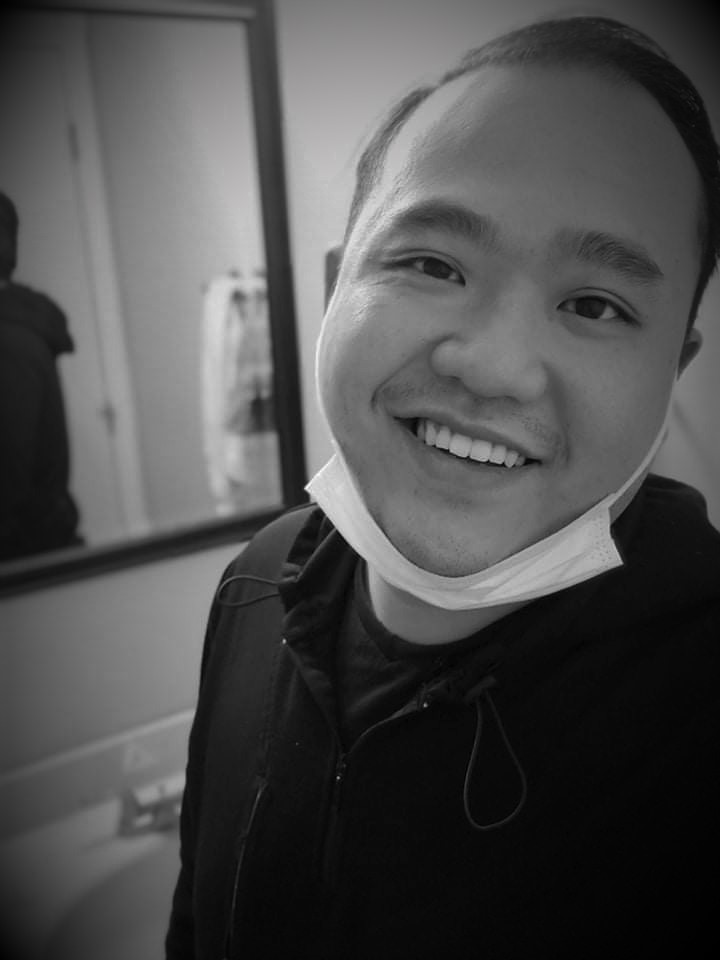
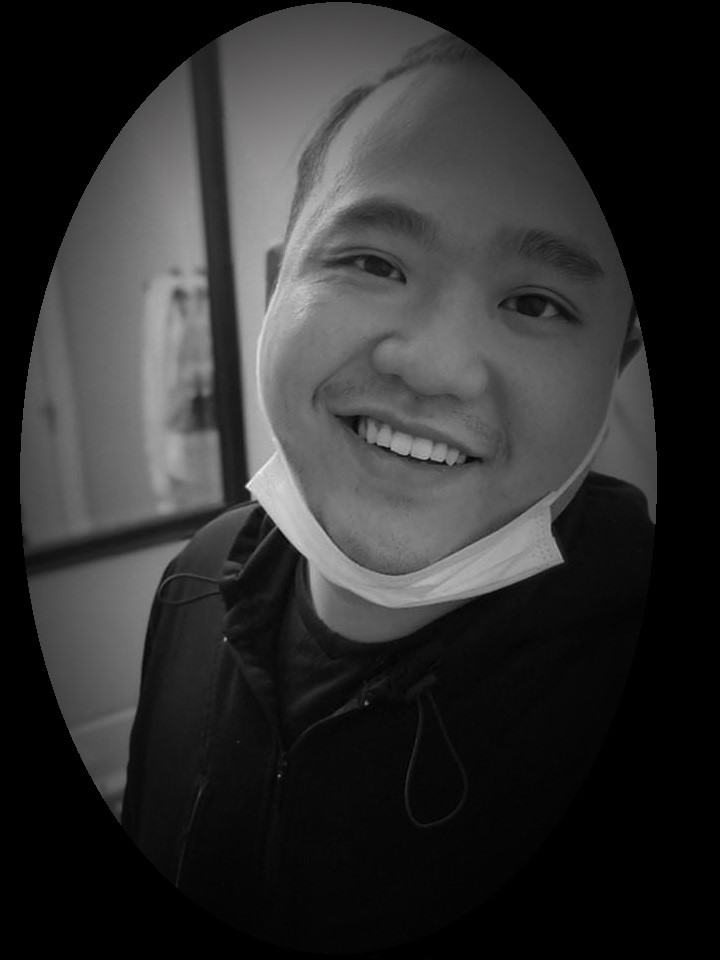
edited photo, changes background color

diff --git a/src/components/pages/AboutMe.js b/src/components/pages/AboutMe.js
@@ -1,16 +1,25 @@
 import React from 'react';
 import ProfilePhoto from '../../assets/MePhotoModified.jpg'
+import '../../styles/Section.css';
+
+const styles = {
+    sectionStyles: {
+      background: 'black',
+      color: 'white',
+    },
+  };
 
 
 export default function AboutMe() {
   return (
-    <div class="container p-2 mt-3">
+    <section style={styles.sectionStyles} className="section">
+    <div class="container p-5 mt-5">
             <h2 class="text-center text-primary fw-bolder pb-3 mb-3">About Me</h2>
             <div class="row d-flex justify-content-center">
-                <div class="col-4">
-                    <img src={ProfilePhoto} className='img-fluid rounded' alt='Profile Photo' />
+                <div class="col-5">
+                    <img src={ProfilePhoto} className='img-fluid rounded' alt='ProfilePhoto' />
                 </div>
-                <div class="col-6">
+                <div class="col-5">
                     <p><span class="fw-bolder fs-4 text-secondary">Hello, I am Samson Vang </span>
                         <br /><br />
 
@@ -25,5 +34,6 @@ export default function AboutMe() {
                 </div>
             </div>
         </div>
+        </section>
   );
 }

diff --git a/src/components/pages/Contact.js b/src/components/pages/Contact.js
@@ -60,7 +60,7 @@ function Contact() {
         <p class="text-center w-responsive mx-auto mb-5">Do you have any questions? Please do not hesitate to contact us directly. Our team will come back to you within
           a matter of hours to help you.</p>
         <form class="row" className="form">
-          <div class="col-md-6">
+          <div class="col-md-4">
             <div class="md-form mb-0">
               <input
                 value={email}

diff --git a/src/components/pages/Portfolio.js b/src/components/pages/Portfolio.js
@@ -1,7 +1,7 @@
 import React from 'react';
 
 
-export default function AboutMe() {
+export default function Portfolio() {
   return (
     <div class="container p-2 mt-3">
     <h1 class="text-center text-primary fw-bolder pb-3 mb-3">Portfolio</h1>

diff --git a/src/styles/Section.css b/src/styles/Section.css
@@ -1,0 +1,9 @@
+.section {
+    background: #f3e5f5;
+    padding: 20px;
+  }
+  
+  .section h2 {
+    text-align: center;
+  }
+  
